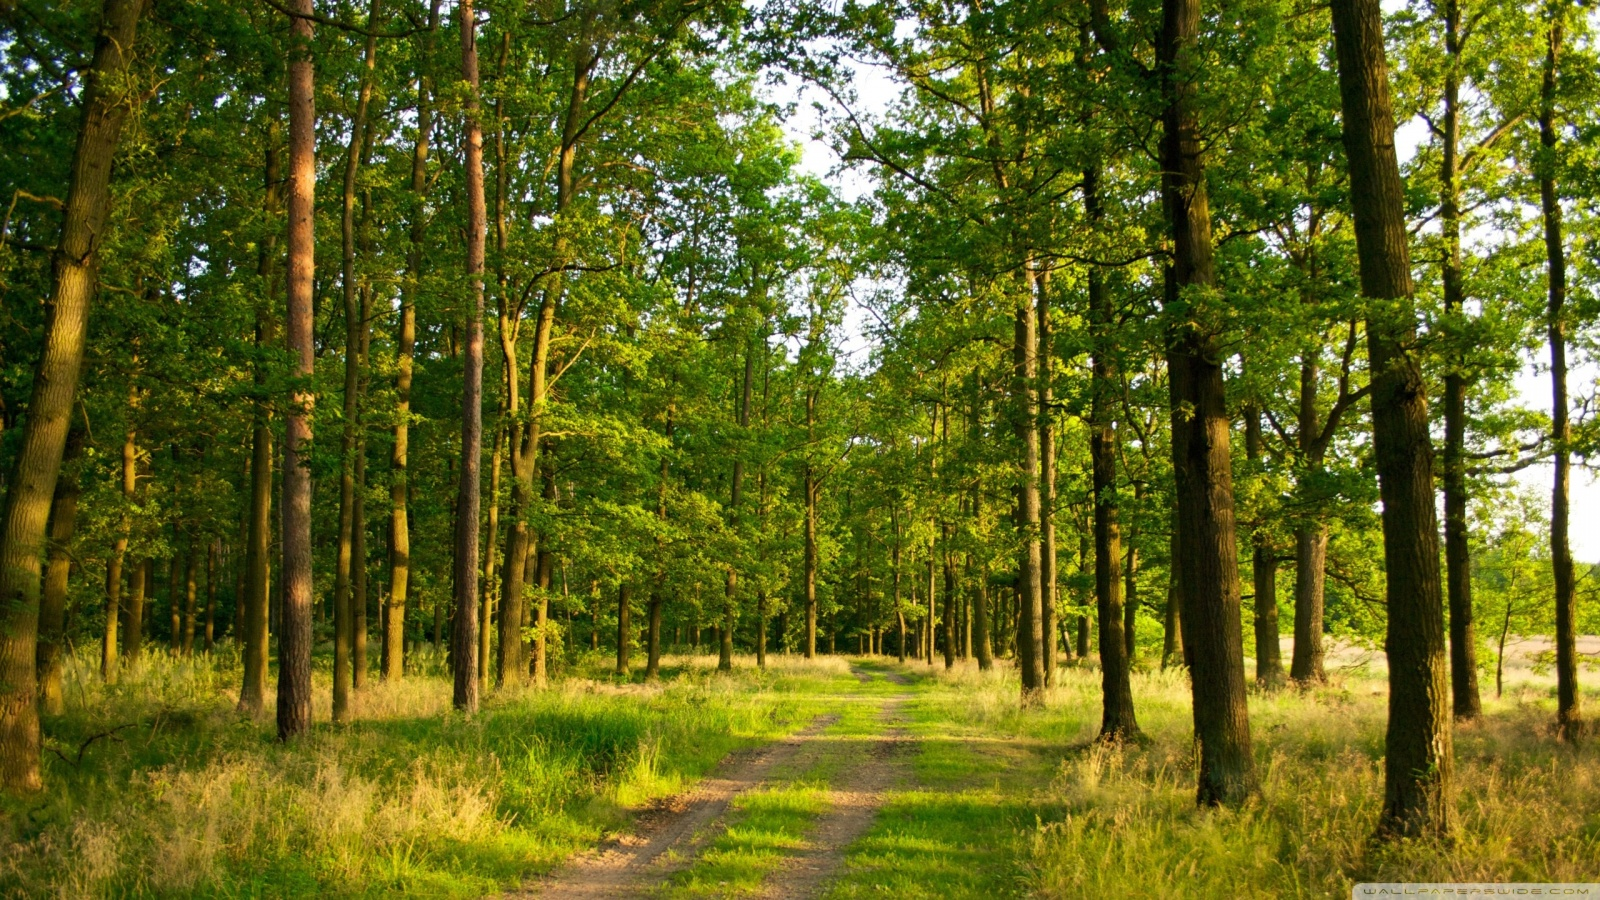
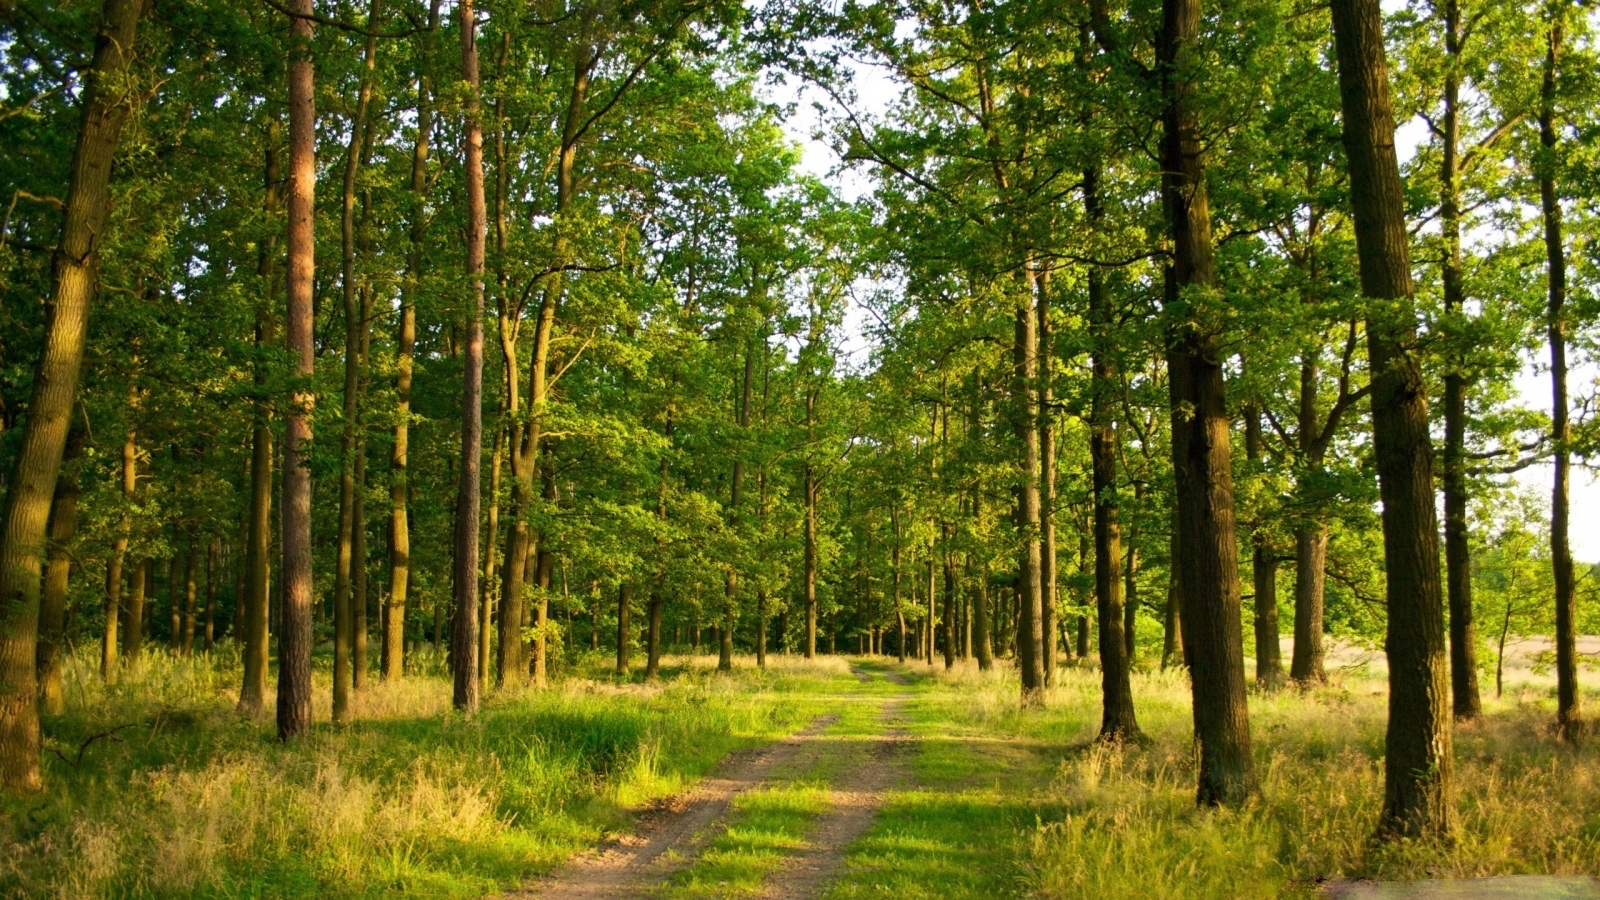
Got rid of watermark on background image, and adjusted a logic error in jinja on user selection page.

Changed region(s): [[0.7812, 0.9644, 1.0, 1.0]]

diff --git a/templates/userselection.html b/templates/userselection.html
@@ -50,7 +50,7 @@
             Show this code to your RVTD bus driver for a free ride.
           </h4>
           <img
-            style="height:100px; width:100px; margin-left: 25px;"
+            style="height:100px; width:100px; margin-left: auto; margin-right:auto; display:block;"
             src="./static/images/qr.png"
             alt=""
           />
@@ -75,18 +75,25 @@
             </h4>
             {% if results.Address != "" %}
             <a
-              style="color:#444;"
+              style="color:#444; float:left;"
               href="https://maps.google.com/maps?q={{results.Address}}"
               target="_blank"
               >Address: {{results.Address}}</a
             >
             {% else %}
-            <label style="margin-left:20px;" for="#filters">
+            <label style="margin-left:20px; float:left;" for="#filters">
               No Address Listed
             </label>
-            <br />
-            <a href="tel:{{results.Phone}}">Phone: {{results.Phone}}</a> {%
-            endif %}
+            {% endif %} <br />
+            {% if results.Phone != "" %}
+            <a style="float:left;" href="tel:{{results.Phone}}"
+              >Phone: {{results.Phone}}</a
+            >
+            {% else %}
+            <label style="margin-left:20px; float:left;" for="#filters">
+              No Phone Number Listed
+            </label>
+            {% endif %}
           </div>
           <br />
           <label style="margin-left:20px;" for="#filters"
@@ -115,11 +122,8 @@
       <!-- Side-Menu contact form. -->
       <div class="Menu ContactForm">
         <h2 style="font-size:28px;">Emergency Contacts</h2>
-        <<<<<<< Updated upstream
         <hr />
-        ======= >>>>>>> Stashed changes
         <!-- IDEA: City of Eugene Helpline Contact Form -->
-
         <label style="color:#ef0b31" for="#EES"
           ><i>Eugene Emergency Services</i></label
         >
@@ -141,7 +145,6 @@
             src="../static/images/location_dopplar.png"
             alt=""
         /></a>
-
         <!-- IDEA: Sacred Heart Helpline Contact Form -->
         <hr />
 
@@ -167,7 +170,6 @@
             src="../static/images/location_dopplar.png"
             alt=""
         /></a>
-
         <!-- IDEA: Non-Emergency Helpline Contact Form -->
         <hr />
         <label style="color:#ef0b31" for="#NEH"

diff --git a/static/css/gallery.css b/static/css/gallery.css
@@ -17,11 +17,13 @@ input {
 body {
   margin: 30px;
   /*background-color: #93d2f9;*/
-  background: url("../images/forestbg.jpg") no-repeat;
+  background: url("../images/forestbg.jpg") no-repeat center center fixed;
   background-size: cover;
-  background-position: center;
   height: 100%;
   font-family: verdana;
+  -webkit-background-size: cover;
+  -moz-background-size: cover;
+  -o-background-size: cover;
 }
 
 img.bg {
@@ -362,8 +364,8 @@ button {
   }
 
   #restrictionimgs {
-    height: 50px;
-    width: 50px;
+    height: 75px;
+    width: 75px;
     margin-left: 5px;
   }
 
